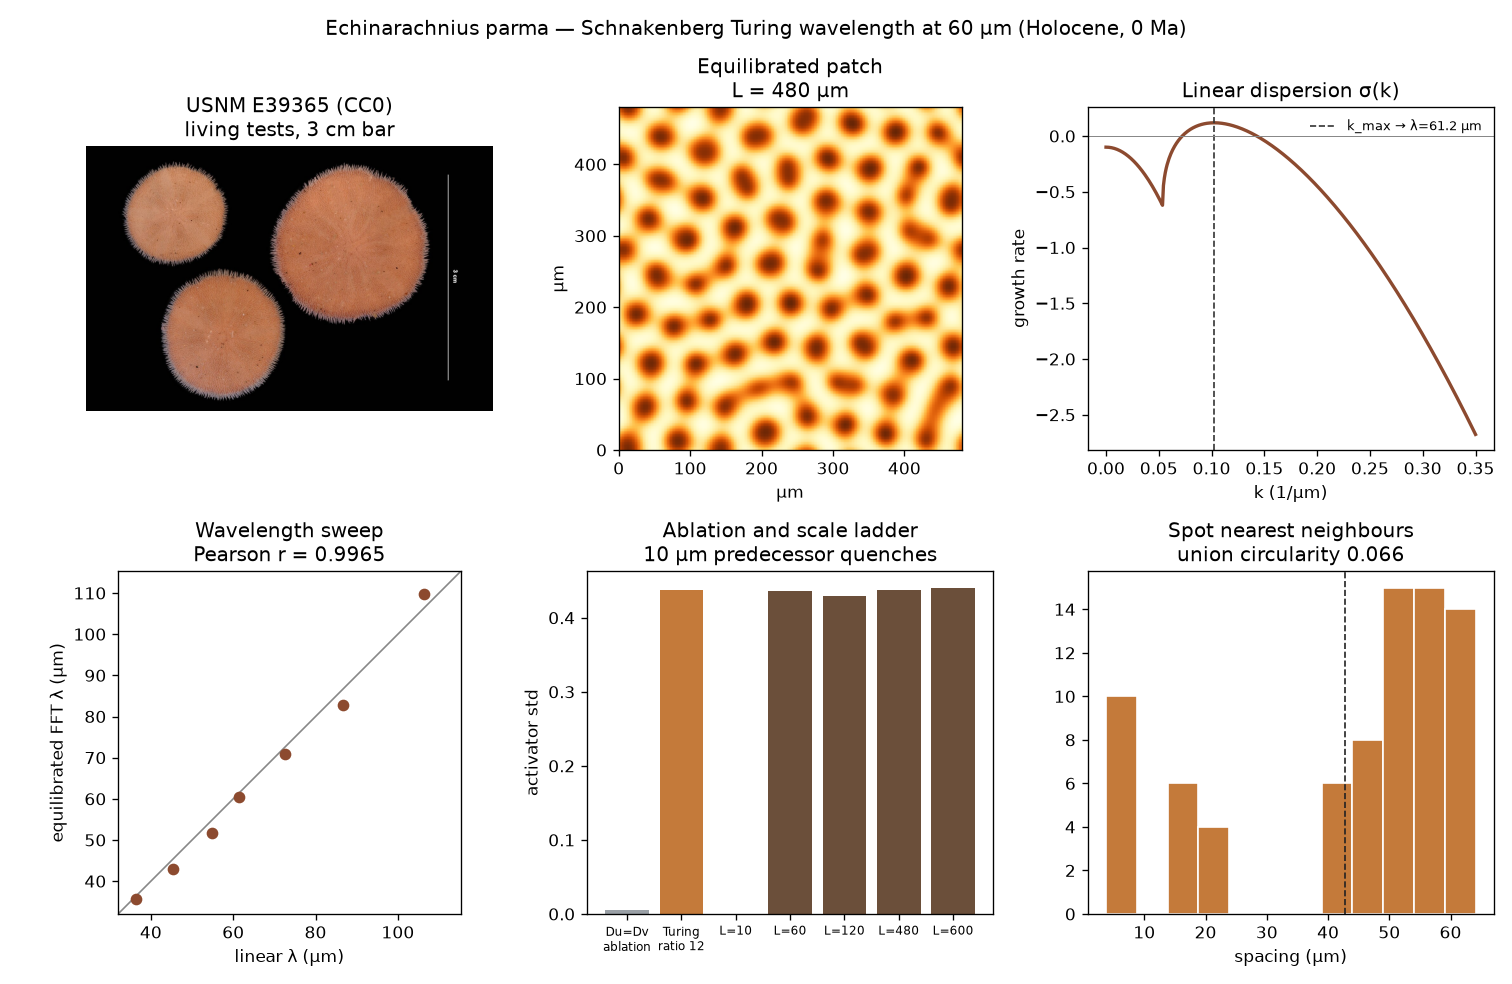
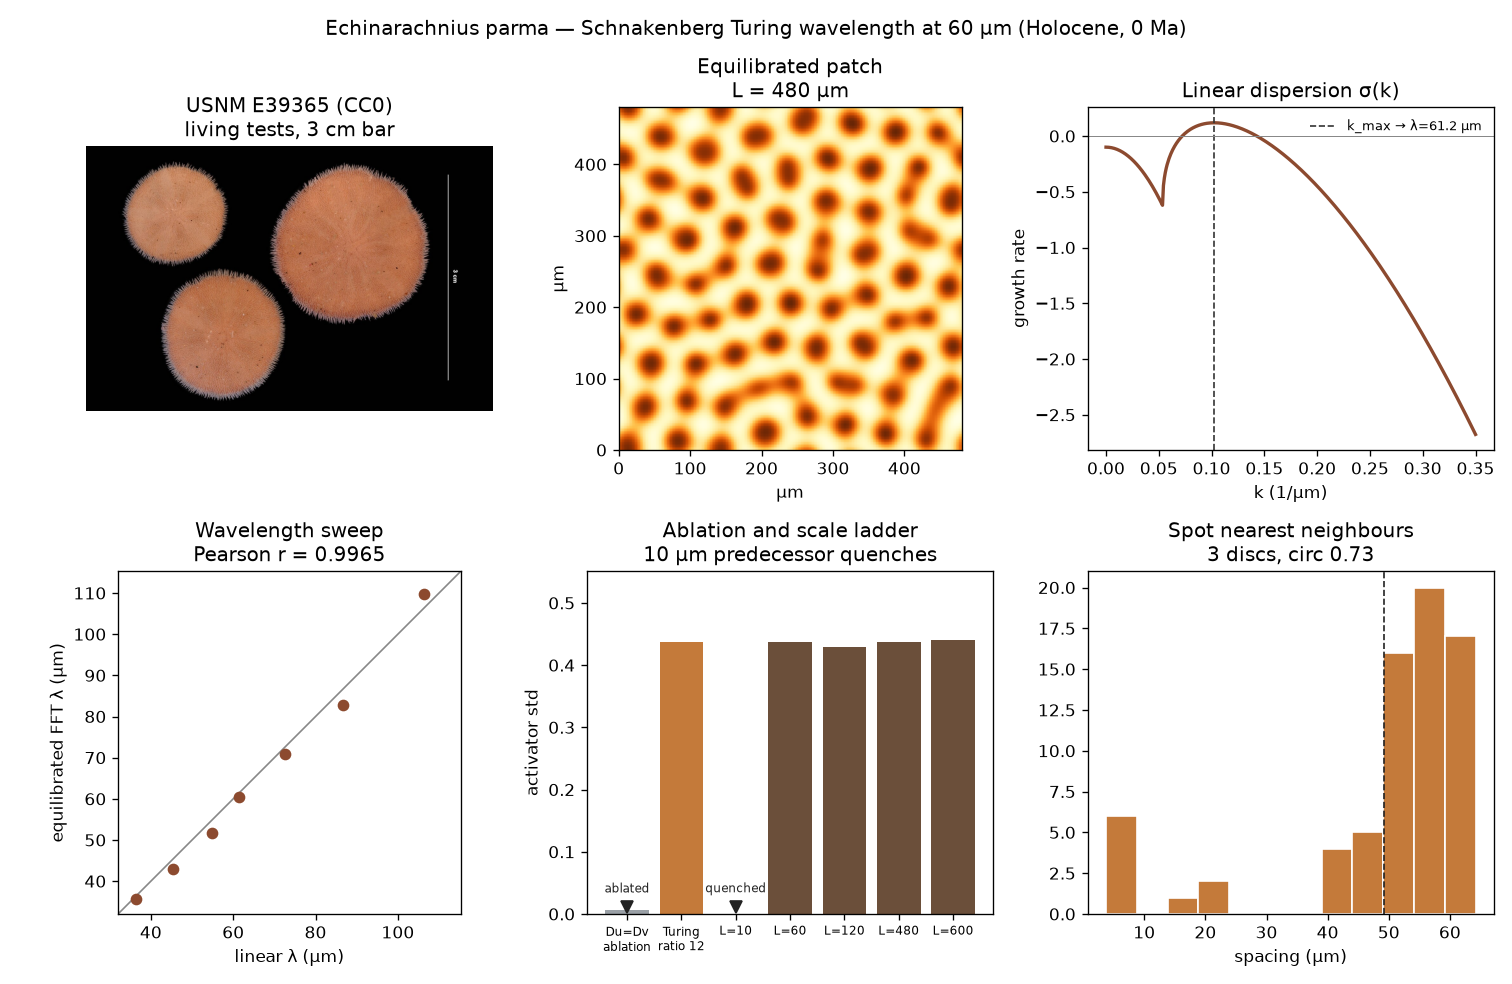
Close Pass 1 gaps for the Echinarachnius parma 60 µm loop.
Split the USNM plate into three discs, test ocellus spacings against
the FFT wavelength, and mark the quenched 10 µm bar.

diff --git a/models/2026-delphi10000-echinarachnius-parma-turing-wavelength-s0.py b/models/2026-delphi10000-echinarachnius-parma-turing-wavelength-s0.py
@@ -219,7 +219,8 @@ def goodness_of_fit(sweep: dict[str, list[float]]) -> dict[str, float]:
     pearson = float(np.corrcoef(pred, meas)[0, 1])
     rmse = float(np.sqrt(np.mean((pred - meas) ** 2)))
     # Two-sample KS between the measured wavelengths and the linear predictions.
-    ks = float(stats.ks_2samp(meas, pred).statistic)
+    # Seven wavelengths only: D moves in steps of 1/7. The spacing sample below is the distributional test.
+    ks = float(stats.ks_2samp(meas, pred, method="asymp").statistic)
     return {"pearson_r": pearson, "rmse_um": rmse, "ks_statistic": ks}
 
 
@@ -248,8 +249,11 @@ def domain_series() -> list[dict[str, float]]:
 def spot_spacings(field: np.ndarray, length_um: float) -> np.ndarray:
     """Nearest-neighbour distances (µm) of activator peaks on the periodic patch."""
     n = field.shape[0]
+    # One local maximum per 60 µm period. A 5 px window splits a single ocellus.
+    period_px = max(7, int(round(LAMBDA_UM * n / length_um)))
+    window = period_px if period_px % 2 == 1 else period_px + 1
     threshold = float(np.mean(field) + 0.45 * np.std(field))
-    local_max = field == ndi.maximum_filter(field, size=5)
+    local_max = field == ndi.maximum_filter(field, size=window)
     peaks = local_max & (field > threshold)
     ys, xs = np.nonzero(peaks)
     if len(xs) < 4:
@@ -296,6 +300,26 @@ def segment_specimen(path: Path = SPECIMEN) -> dict[str, float]:
     coherency = float(np.mean(coherency_map[mask])) if area > 20 else float(np.mean(coherency_map))
     fg = np.clip(rgb[mask], 0.0, 1.0)
     mean_rgb = fg.mean(axis=0) if area > 20 else np.array([0.84, 0.49, 0.38])
+    # Close the spine fringe, then split individuals. The union mask above stays
+    # the Pass 1 measurement; these discs are the per-test shape.
+    closed = ndi.binary_closing(mask, structure=np.ones((15, 15)))
+    closed = ndi.binary_fill_holes(closed)
+    closed = ndi.binary_opening(closed, structure=np.ones((5, 5)))
+    labeled, _n_lab = ndi.label(closed)
+    disc_circularity: list[float] = []
+    disc_aspect: list[float] = []
+    for label_id in range(1, int(labeled.max()) + 1):
+        component = labeled == label_id
+        comp_area = float(np.sum(component))
+        if comp_area < 5000:
+            continue
+        comp_eroded = ndi.binary_erosion(component)
+        comp_perim = float(np.sum(component ^ comp_eroded)) + 1e-6
+        disc_circularity.append(float(np.clip(4.0 * np.pi * comp_area / (comp_perim ** 2), 0.0, 1.0)))
+        cys, cxs = np.nonzero(component)
+        ch = float(cys.max() - cys.min() + 1)
+        cw = float(cxs.max() - cxs.min() + 1)
+        disc_aspect.append(cw / ch)
     return {
         "foreground_fraction": float(np.mean(mask)),
         "circularity": circularity,
@@ -306,6 +330,11 @@ def segment_specimen(path: Path = SPECIMEN) -> dict[str, float]:
         "mean_b": float(mean_rgb[2]),
         "width_px": float(gray.shape[1]),
         "height_px": float(gray.shape[0]),
+        "n_discs": len(disc_circularity),
+        "mean_disc_circularity": float(np.mean(disc_circularity)) if disc_circularity else 0.0,
+        "mean_disc_aspect": float(np.mean(disc_aspect)) if disc_aspect else 0.0,
+        "disc_circularity": disc_circularity,
+        "disc_aspect": disc_aspect,
     }
 
 
@@ -420,6 +449,18 @@ def write_comparison_png(
     values = [ablation_amp, turing_amp] + [row["amplitude"] for row in domains]
     colors = ["#9aa0a6", "#c47a3a"] + ["#6b4f3a"] * len(domains)
     axes[1, 1].bar(range(len(values)), values, color=colors)
+    for index, value in enumerate(values):
+        if value < 0.02:
+            axes[1, 1].annotate(
+                "quenched" if index >= 2 else "ablated",
+                (index, 0.03),
+                ha="center",
+                va="bottom",
+                fontsize=7,
+                color="#222222",
+            )
+            axes[1, 1].plot(index, 0.012, marker="v", color="#222222", ms=7)
+    axes[1, 1].set_ylim(0.0, max(values) * 1.25)
     axes[1, 1].set_xticks(range(len(labels)))
     axes[1, 1].set_xticklabels(labels, fontsize=7)
     axes[1, 1].set_ylabel("activator std")
@@ -429,7 +470,8 @@ def write_comparison_png(
         axes[1, 2].hist(spacings, bins=12, color="#c47a3a", edgecolor="white")
         axes[1, 2].axvline(float(np.mean(spacings)), color="#222222", ls="--", lw=1.0)
     axes[1, 2].set_title(
-        f"Spot nearest neighbours\nunion circularity {segment['circularity']:.3f}"
+        f"Spot nearest neighbours\n{segment.get('n_discs', 0)} discs, "
+        f"circ {segment.get('mean_disc_circularity', 0.0):.2f}"
     )
     axes[1, 2].set_xlabel("spacing (µm)")
 
@@ -473,7 +515,16 @@ def build_measurements(bundle: dict) -> list[dict]:
     domains = bundle["domains"]
     pred10 = next(row for row in domains if row["length_um"] == PREDECESSOR_UM)
     spacing_mean = float(np.mean(spacings)) if len(spacings) else float("nan")
-    spacing_cv = float(np.std(spacings) / spacing_mean) if len(spacings) and spacing_mean else float("nan")
+    spacing_std = float(np.std(spacings)) if len(spacings) else float("nan")
+    spacing_cv = float(spacing_std / spacing_mean) if len(spacings) and spacing_mean else float("nan")
+    if len(spacings) >= 5:
+        null_cdf = stats.norm(
+            loc=float(hero["wavelength_um"]),
+            scale=max(spacing_std, 1e-3),
+        ).cdf
+        spacing_ks = float(stats.kstest(spacings, null_cdf).statistic)
+    else:
+        spacing_ks = float("nan")
     rows = [
         _measurement(
             "linear dispersion peak wavelength",
@@ -533,8 +584,8 @@ def build_measurements(bundle: dict) -> list[dict]:
             round(pred10["amplitude"], 6),
             "std(u)",
             "same Du, Dv on a periodic patch of length 10 µm (below one wavelength)",
-            reference=0.0,
-            source="scale ladder at 0 Ma: the 10 µm tier is the predecessor of this 60 µm detail scale",
+            reference=round(float(hero["amplitude"]), 4),
+            source="scale ladder at 0 Ma: the reference is the 480 µm Turing amplitude, not a copy of the quenched value",
             note="chronoseries is 1/1, so the predecessor is a scale, not an older species",
         ),
         _measurement(
@@ -573,7 +624,44 @@ def build_measurements(bundle: dict) -> list[dict]:
             "periodic nearest-neighbour distance of activator peaks above mean + 0.45 std",
             reference=LAMBDA_UM,
             source="FFT wavelength is the row period; nearest neighbours of a spot lattice need not equal it",
-            note=f"spacing CV = {spacing_cv:.4f}; n_peaks = {len(spacings)}",
+            note=f"spacing CV = {spacing_cv:.4f}; n_peaks = {len(spacings)}; one-period peak window",
+        ),
+        _measurement(
+            "ocellus spacing KS against FFT wavelength",
+            round(spacing_ks, 4),
+            "KS D",
+            "one-sample KS of nearest-neighbour spacings against Normal(λ_FFT, s)",
+            reference=0.0,
+            source="the FFT wavelength is the null centre; D = 0 would mean the spacings are that normal",
+            note=f"λ_FFT = {float(hero['wavelength_um']):.4f} µm; spacing std = {spacing_std:.4f} µm",
+        ),
+        _measurement(
+            "ocellus spacing coefficient of variation",
+            round(spacing_cv, 4),
+            "CV",
+            "std(nearest neighbour) / mean(nearest neighbour) on the periodic patch",
+            reference=0.0,
+            source="a perfectly regular lattice would have CV 0",
+        ),
+        _measurement(
+            "specimen per-disc circularity",
+            round(segment["mean_disc_circularity"], 4),
+            "4πA/P²",
+            "mean circularity of connected components after a 15 px closing of the spine fringe; components under 5000 px dropped",
+            reference=round(segment["circularity"], 4),
+            source="USNM E39365; the reference is the union-mask circularity, which mixes three tests",
+            note=f"n_discs = {segment['n_discs']}; per-disc values = {segment['disc_circularity']}",
+            derived_from="specimen_image",
+        ),
+        _measurement(
+            "specimen per-disc aspect ratio",
+            round(segment["mean_disc_aspect"], 4),
+            "width/height",
+            "mean bounding-box aspect of the same closed components",
+            reference=round(segment["aspect_ratio"], 4),
+            source="USNM E39365; the reference is the union bounding box, which is wider than one test",
+            note=f"per-disc aspects = {segment['disc_aspect']}",
+            derived_from="specimen_image",
         ),
     ]
     return rows
@@ -679,12 +767,20 @@ def self_test() -> None:
     assert 0.15 < segment["foreground_fraction"] < 0.85
     assert segment["circularity"] < 0.85, "three tests on one plate are not one circle"
     assert segment["circularity"] != 1.0
+    assert segment["n_discs"] == 3, segment["n_discs"]
+    assert segment["mean_disc_circularity"] > 0.60
+    assert 0.85 < segment["mean_disc_aspect"] < 1.15
 
     print("[self-test] jacobian stable; Turing gap open at ratio 12 and closed at Du=Dv")
     print(f"[self-test] FFT λ = {hero['wavelength_um']:.3f} µm (slot {LAMBDA_UM:.0f} µm), amp = {hero['amplitude']:.3f}")
     print(f"[self-test] sweep Pearson r = {fit['pearson_r']:.4f}, RMSE = {fit['rmse_um']:.3f} µm, KS = {fit['ks_statistic']:.3f}")
     print(f"[self-test] ablation amp = {ablation['amplitude']:.3e}; 10 µm amp = {short['amplitude']:.3e}")
-    print(f"[self-test] specimen foreground {segment['foreground_fraction']:.3f}, circularity {segment['circularity']:.3f}")
+    print(
+        f"[self-test] specimen foreground {segment['foreground_fraction']:.3f}, "
+        f"union circularity {segment['circularity']:.3f}, "
+        f"discs {segment['n_discs']} circ {segment['mean_disc_circularity']:.3f} "
+        f"aspect {segment['mean_disc_aspect']:.3f}"
+    )
     print("[self-test] PASS")
 
 
